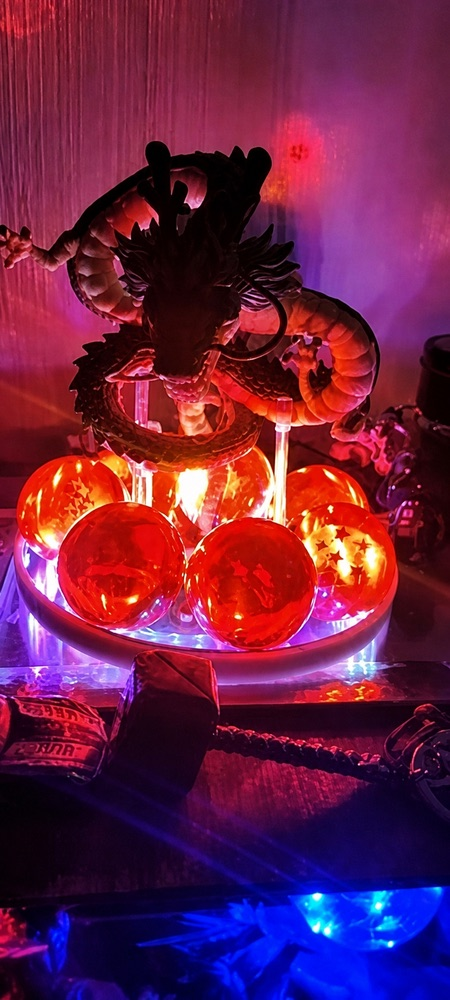
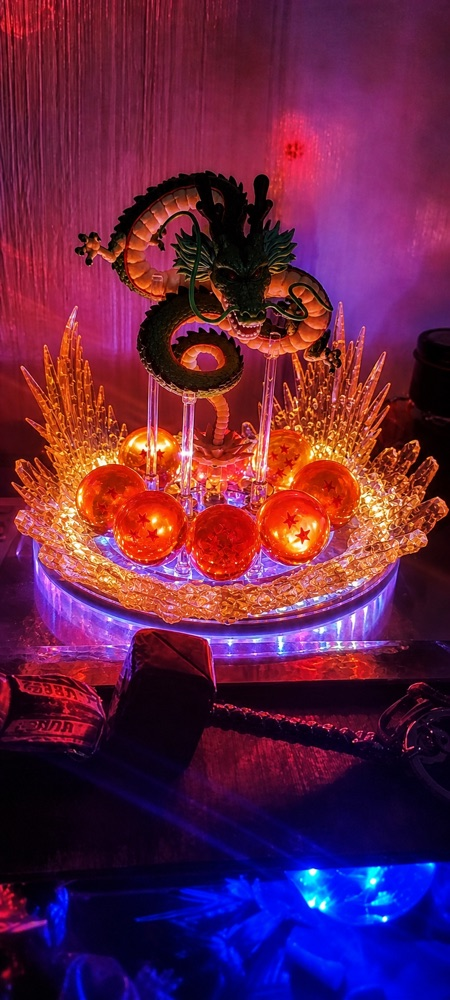
Upgrade Summoning Glow review product imagery

diff --git a/catalog-products/summoning-glow-16cm/image-generation-log.md b/catalog-products/summoning-glow-16cm/image-generation-log.md
@@ -86,6 +86,18 @@ Final size map:
 - `standify-review-87093566-upscaled.png` — 750×1000
 - `standify-review-87093567-upscaled.png` — 750×1000
 
+## Upgraded-ridge review-photo merchandising edits
+
+The 12 review photos currently used by the native widget were edited separately with the built-in image-generation tool so the pictured package matches the merchant's upgraded offer. Four merchant-supplied product photos were used as exact references for the added translucent amber/yellow molded parts: two tall side/rear energy-ridge clusters and the jagged crystal-ridge ring around the outer/front edge of the illuminated base.
+
+Accepted full-resolution edits are preserved under `customer-photos/upgraded-ridge-edits/`. The legacy originals and conservative restorations remain unchanged in `customer-photos/legacy-originals/` and `customer-photos/legacy-upscaled/`.
+
+For assembled photos, the edit request preserved the original scene, camera angle, crop, background, furniture, cables, reflections, lighting, noise, and casual customer-photo character while replacing only the product assembly. Each accepted result has one green coiled dragon, exactly seven orange star spheres, clear supports, the LED base, two tall ridge clusters, and the outer/front ridge ring. One first-pass edit for review `87093553` was rejected because it contained eight spheres; the accepted precise-object correction removes the extra rear-center sphere and retains seven.
+
+For unboxing review `87093565`, the display was deliberately left unassembled. The edit adds the two ridge clusters and segmented outer ridge pieces as loose translucent plastic parts inside/on the existing packaging while preserving the packed layout and surrounding scene.
+
+Theme delivery derivatives replace the existing JPEG/WebP pairs for reviews `87093553`–`87093560` and `87093563`–`87093566`. They retain the widget's prior dimensions (450–1000 px wide, 750–1000 px tall) instead of serving the larger PNG masters. WebP is encoded at quality 72 with JPEG quality 82 as fallback.
+
 ## Complete-the-set popup artwork
 
 The original popup artwork below was built from supplier product `1005007113011680` and is superseded. The v2 artwork uses the merchant-confirmed product `1005012765836810`, the stated 23 cm height, and the four customer references in `../eternal-dragon-23cm/customer-images/`.

diff --git a/catalog-products/summoning-glow-16cm/REVIEW-WIDGET.md b/catalog-products/summoning-glow-16cm/REVIEW-WIDGET.md
@@ -8,7 +8,7 @@ The 18 reviews and 16 matching customer photos are rendered directly by a produc
 - `snippets/summoning-glow-review-card.liquid` renders each review card.
 - `assets/summoning-glow-reviews.css` provides the responsive card, filters, and lightbox styling.
 - `assets/summoning-glow-reviews.js` provides photo filtering, progressive reveal, and the accessible photo lightbox.
-- `assets/summoning-glow-review-87093552.jpg` through `assets/summoning-glow-review-87093567.jpg` are compact theme-ready derivatives of the accepted 2× restorations.
+- `assets/summoning-glow-review-87093552.jpg` through `assets/summoning-glow-review-87093567.jpg` are compact theme-ready review images. The card snippet prefers matching WebP files and retains the JPEGs as fallbacks.
 
 The source display names, dates, five-star ratings, experiences, criticism, and exact review-to-photo relationships are retained. The merchant states that the reviewers authorized editorial rewriting. The public widget does not add a migration label or claim that these are verified purchases.
 
@@ -23,4 +23,5 @@ Photo reviews appear first in the widget so the initial six-card view is visuall
 - `legacy-reviews.json` preserves the source text and accepted editorial text.
 - `customer-photos/legacy-originals/` preserves the downloaded source files.
 - `customer-photos/legacy-upscaled/` preserves the accepted, conservatively restored 2× PNG files.
+- `customer-photos/upgraded-ridge-edits/` preserves the full-resolution built-in image-to-image edits for the 12 photos currently used by the widget. These reflect the upgraded bundle's two translucent ridge clusters and outer/front ridge ring while leaving the original and restored source archives intact. Review `87093565` remains an unassembled package photo with the extra components shown loose in the packaging.
 - `customer-photos/legacy-review-before-after.jpg` is the visual QA contact sheet.
